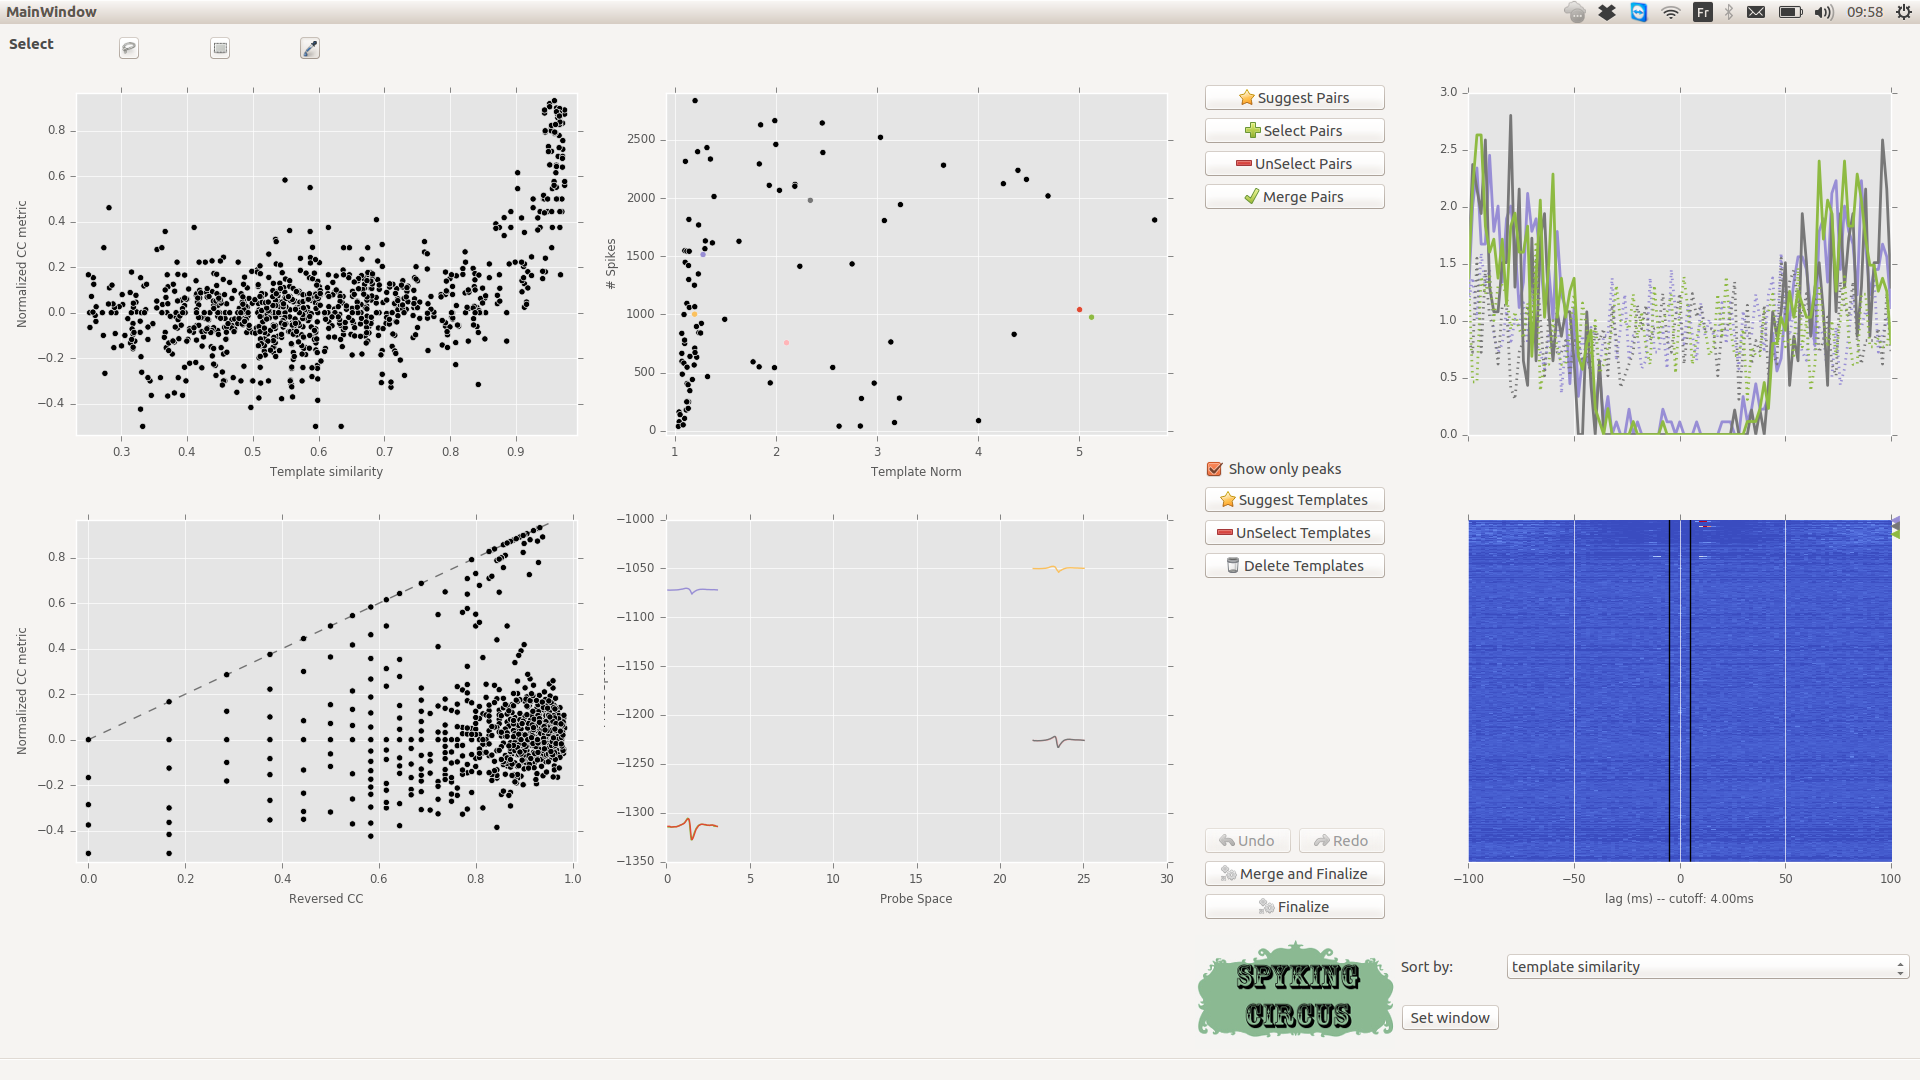
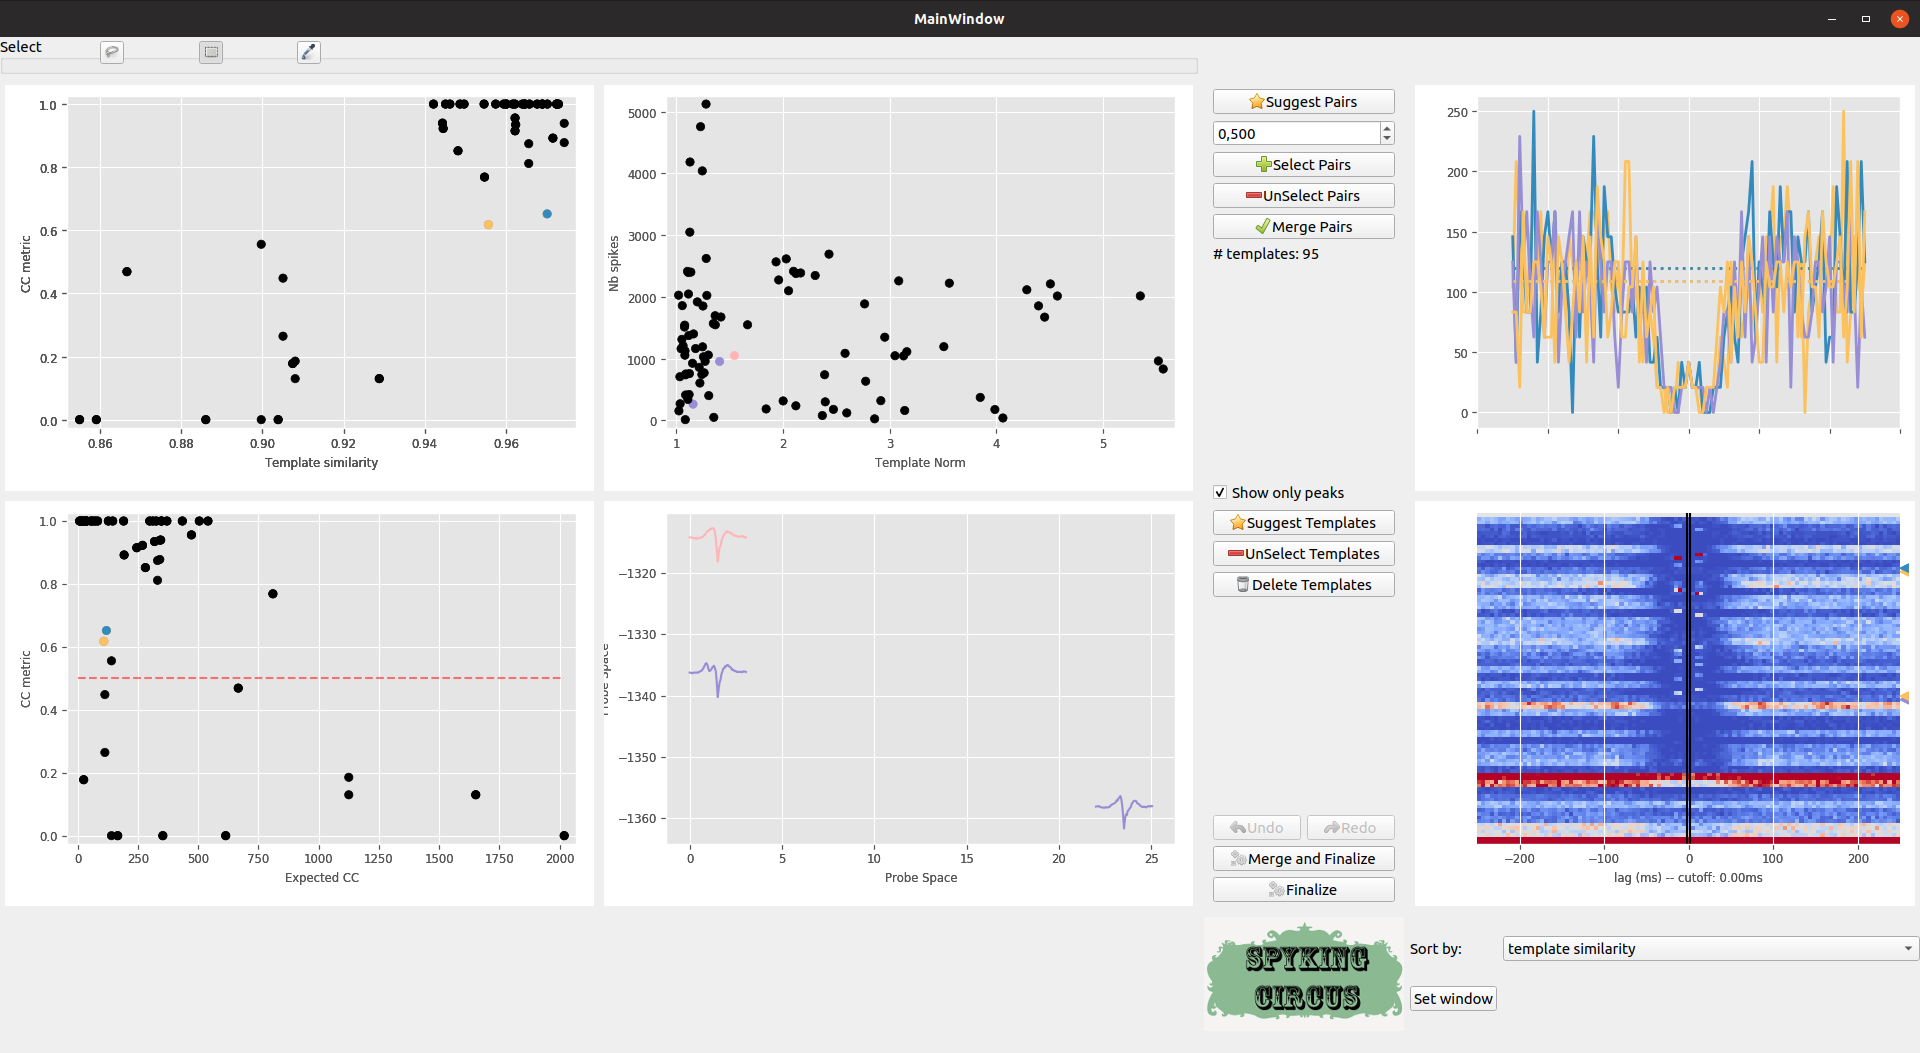
docs

diff --git a/docs_sphinx/code/merging.rst b/docs_sphinx/code/merging.rst
@@ -2,21 +2,26 @@ Automatic Merging
 =================
 
 Need for an meta merging step
-----------------------------------
+-----------------------------
 
 Because for high number of channels, the chance that a cell can be split among several templates are high, one need to merge putative templates belonging to the same cells. This is a classical step in most of the spike sorting technique, and traditionally, this step was performed by a human operator, reviewing all templates one by one. Problem is that with the new generation of dense probes that the code can handle (4225 channels), the output of the algorithm can lead to more than 1000 templates, and one can not expect a human to go through all pairs iteratively.
 
 To automatize the procedure, we developed a so-called meta-merging step that will allow to quickly identify pairs of templates that have to be merged. To do so, first, we consider only pairs that have a similarity between their templates higher than ``cc_overlap``. This allow not to considerate all the possible pairs, but only those that are likely to be the same cells, because their templates are similar. 
 
+.. note::
+
+  Since 0.8.2, the merging step is now included in the deafault pipeline of the algorithm, in order to simplify the evaluation with automatic procedures. However, since we don't want to claim that such a meta-merging is optimal for all dataset, all species, and also for long and non-stationary recordings, we would encourage users to look at full results if the meta merging is suspicious.
+
+
 Comparison of CrossCorrelograms
 -------------------------------
 
-Then, for all those pairs of cells, we are computing the cross-correlation function in a time window of [-100, 100] ms, with a particular time bin ``cc_bin``. The rationale behind is that a pair of template that should be merged should have a dip in the center of its cross-correlogram. To quantify that in an automated manner, we compute a control cross-correlogram in the same window of interest, but by reverting in time the spikes of cell 2. This allow us to compare the normal cross-correlogram between the two cells to a "control" one, keeping the same amount of correlation (see Figure).
+Then, for all those pairs of cells, we are computing the cross-correlation function in a time window of [-100, 100] ms, with a particular time bin ``cc_bin``. The rationale behind is that a pair of template that should be merged should have a dip in the center of its cross-correlogram. To quantify that in an automated manner, we compute the theoretical amount of correlation that we should have, assuming the two cells would be independent. This allow us to compare the normal cross-correlogram between the two cells to a "control" one, keeping the same amount of correlation (see Figure).
 
 .. figure::  merging0.png
    :align:   center
 
-   Difference between a normal cross-correlogram for a given pair of cells, and a control version where the spikes from the second cells are reversed in time. The center area in between the red dash dotted line is the one of interest.
+   Difference between a normal cross-correlogram for a given pair of cells, and a ``control`` version. The center area in between the red dash dotted line is the one of interest.
 
 To quantify the dip, we measure the difference between the cross correlogram and its shuffled version in a window of interest [``-cc_average``, ``cc_average``].
 

diff --git a/docs_sphinx/code/parameters.rst b/docs_sphinx/code/parameters.rst
@@ -29,6 +29,8 @@ What are the steps of the algorithm you would like to perform. Defaults steps ar
     2. whitening
     3. clustering
     4. fitting
+    5. merging
+
 
 Note that filtering is performed only once, and if the code is relaunched on the same data, a flag in the parameter file will prevent the code to filter twice. You can specify only a subset of steps by doing::
     
@@ -36,7 +38,7 @@ Note that filtering is performed only once, and if the code is relaunched on the
 
 .. note::
 
-    Extra steps are available, such as ``merging`` (see the devoted section :doc:`documentation on Meta Merging <../code/merging>`), or even more (:doc:`documentation on extra steps <../advanced/extras>`).
+    The results of the ``merging`` step are still saved with a different extension compared to the full results of the algorithm. This is because we don't claim that a full automation of the software can work out of the box for all dataset, areas, species, ... So if you want to work from merged results, use the ``-e merged`` extension while converting/displaying results. But otherwise, just look to the ra results, without the merging step (see the devoted section :doc:`documentation on Meta Merging <../code/merging>`), or even more (:doc:`documentation on extra steps <../advanced/extras>`).
 
 * ``-c`` or ``--cpu``
 

diff --git a/docs_sphinx/introduction/install.rst b/docs_sphinx/introduction/install.rst
@@ -42,6 +42,16 @@ To do so, use the ``pip`` utility::
 
     >> pip install spyking-circus
 
+
+Note that if you are using a linux distribution, you must be sure that you have ``mpich`` instead of ``openmpi`` (default on Ubuntu). To do that, please do::
+
+    >> sudo apt remove openmpi
+    >> sudo apt install mpich libmpich-dev
+
+And to be sure that mpi4py is not installed with precompiled binary that would link with openmpi, you need to do::
+
+    >> pip install spyking-circus --no-binary=mpi4py
+
 You might want to add the ``--user`` flag, to install SpyKING CIRCUS for the local user only, which means that you don't need administrator privileges for the installation.
 
 In principle, the above command also install SpyKING CIRCUS's dependencies, and CUDA_ support if ``nvcc`` command is found in your environment. Once the install is complete, you need to add the ``PATH`` where SpyKING CIRCUS has been installed into your local ``PATH``, if not already the case. To do so, simply edit your ``$HOME/.bashrc`` and add the following line::

diff --git a/docs_sphinx/code/quickstart.rst b/docs_sphinx/code/quickstart.rst
@@ -102,6 +102,8 @@ Once the algorithm has run on the data path/mydata.extension, you should have th
 
 See the details here see :doc:`file formats <../advanced/files>` to know more how those files are structured.
 
+Since 0.8.2, you should also have the same files, but with the ``-merged`` extension for some of them. This is because the merging step has been included in the default pipeline of the algorithm. Both results (with or without this extra merging) can be visualized, and/or exported for MATLAB_ and phy_.
+
 Matlab GUI
 ~~~~~~~~~~
 

diff --git a/docs_sphinx/introduction/release_notes.rst b/docs_sphinx/introduction/release_notes.rst
@@ -31,7 +31,7 @@ Code and documentation contributions (ordered by the number of commits):
 * Cyrille Rossant
 
 =============
-Release 0.8.1
+Release 0.8.2
 =============
 
 * add a docker file to build the software
